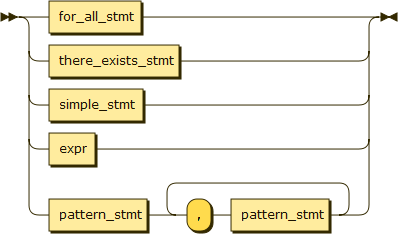
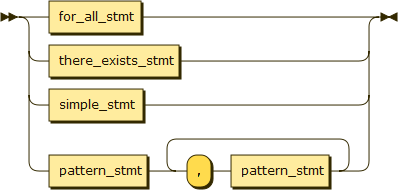
Removing function_call

diff --git a/EBNF.md b/EBNF.md
@@ -10,7 +10,6 @@
   - [simple_stmt](#simple_stmt)
   - [for_all_stmt](#for_all_stmt)
   - [there_exists_stmt](#there_exists_stmt)
-  - [function_call](#function_call)
   - [function_call_expr](#function_call_expr)
   - [binding](#binding)
   - [expr](#expr)
@@ -78,17 +77,6 @@ do_stmt ::= "do" function_call
   </a>
 </p>
 
-###### function\_call
-```EBNF
-function_call ::= constant
-                | binding_name ('.' | '∘') function_call
-```
-<p align="left">
-  <a href="">
-    <img alt="FunctionCall" src="./img/function_call.png" />
-  </a>
-</p>
-
 ###### let\_stmt
 ```EBNF
 let_stmt ::= "let" binding+
@@ -114,7 +102,6 @@ binding ::= binding_name '=' pattern_stmt ':' expr (',' expr)*
 pattern_stmt ::= for_all_stmt
                | there_exists_stmt
                | simple_stmt
-               | expr
                | pattern_stmt (',' pattern_stmt)+
 ```
 <p align="left">
@@ -276,8 +263,8 @@ relatioship ::= ("subset" "of" | '⊆')
 type ::= 'Z'
        | 'N'
        | 'R'
+       | "Char"
        | "Universe"
-       | set
        | binding_name
 ```
 <p align="left">
